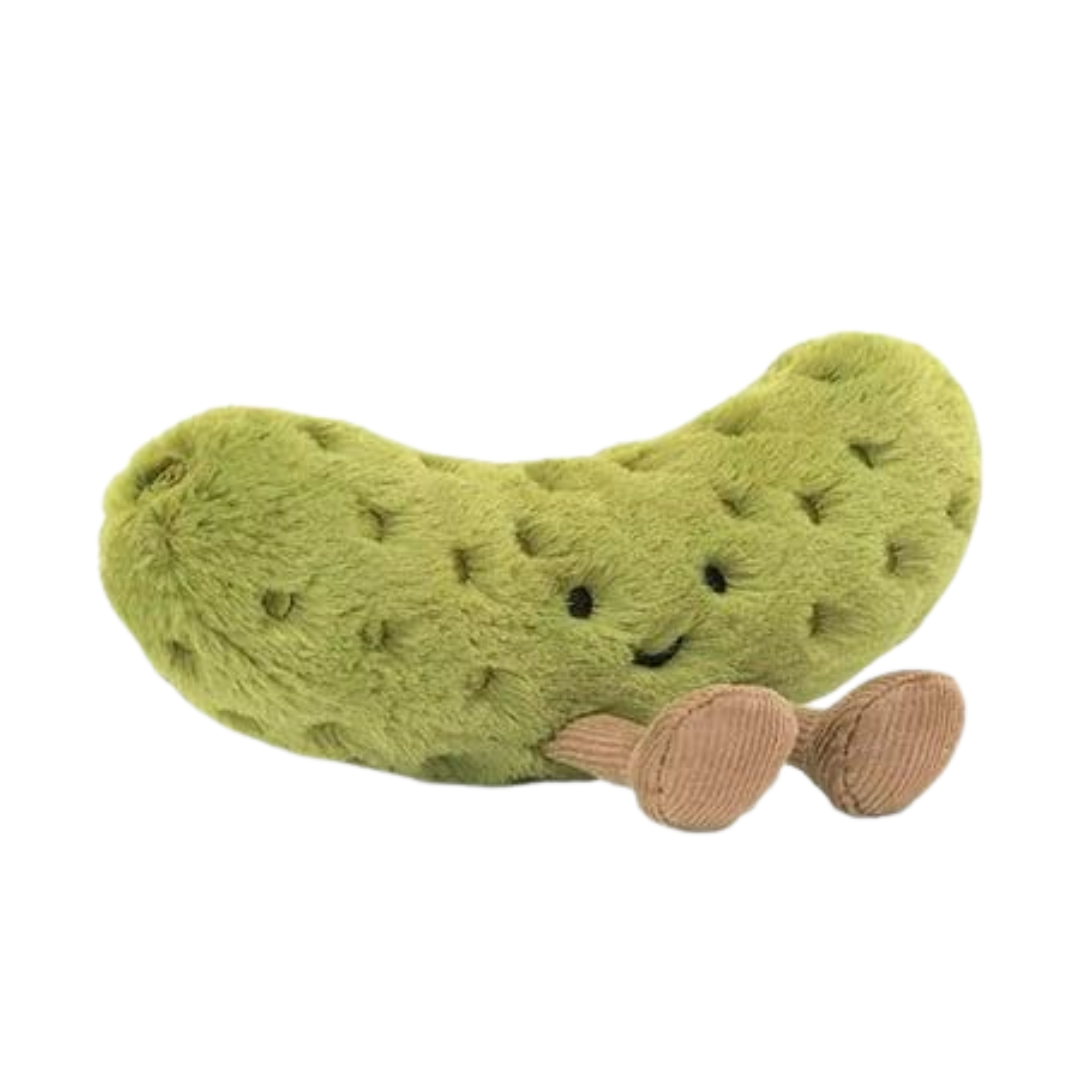
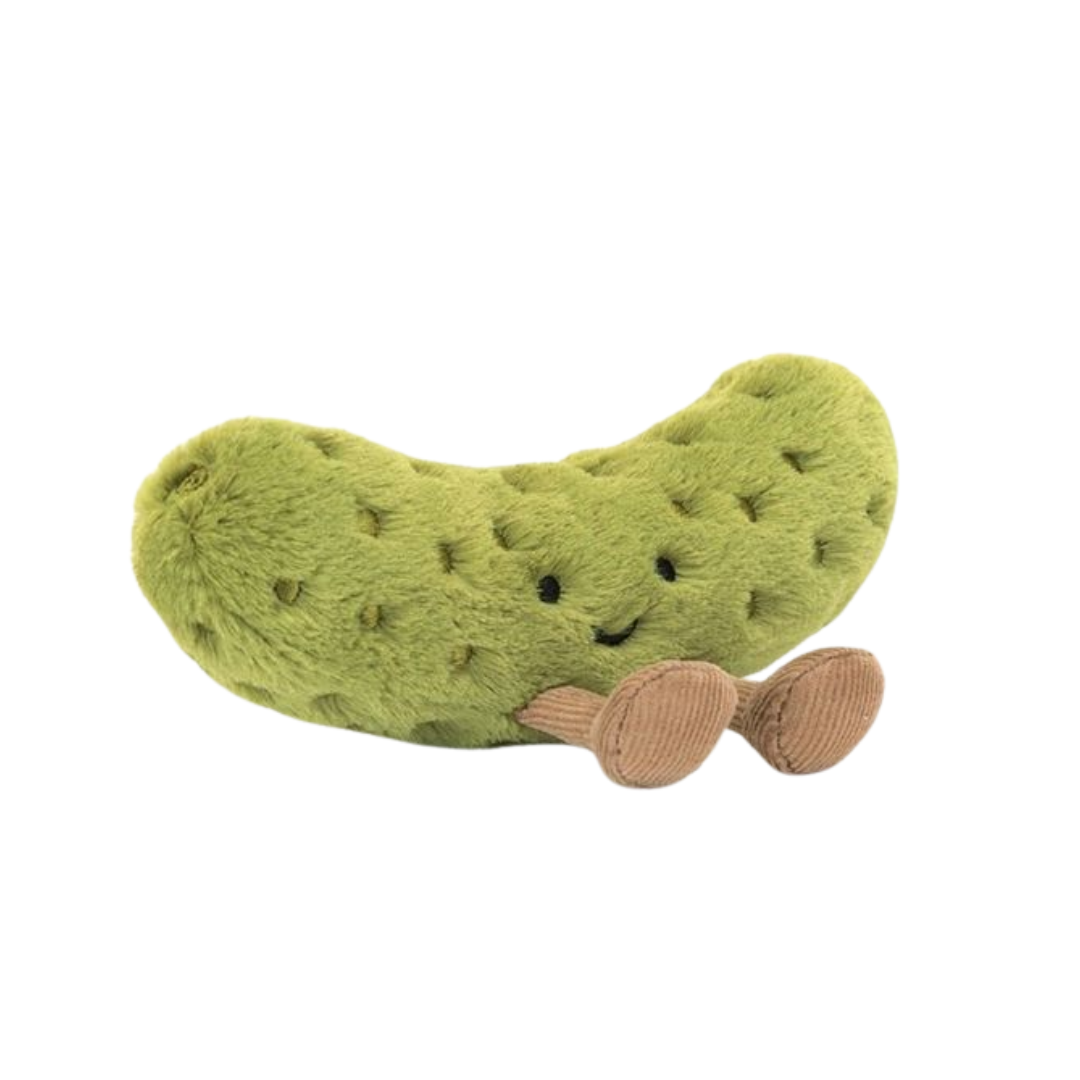
added more jelllycat items

Changed region(s): [[0.0917, 0.3056, 0.9167, 0.7944]]

diff --git a/food-jellycat-collection/src/App.jsx b/food-jellycat-collection/src/App.jsx
@@ -13,6 +13,11 @@ const jellycatCollection = [
   { name: "brie", type: "misc", img: "/jellycat-images/brie.png"},
   { name: "chili", type: "veggie", img: "/jellycat-images/chili.png"},
   { name: "clementine", type: "fruit", img: "/jellycat-images/clementine.png"},
+  { name: "birthday cake", type: "pastry", img: "/jellycat-images/birthday_cake.png"},
+  { name: "cauliflower", type: "veggie", img: "/jellycat-images/cauliflower.png"},
+  { name: "lemon tart", type: "pastry", img: "/jellycat-images/lemon_tart.png"},
+  { name: "pickle", type: "veggie", img: "/jellycat-images/pickle.png"},
+  { name: "macaroon", type: "pastry", img: "/jellycat-images/macaroon.png"},
   
 
 

diff --git a/food-jellycat-collection/src/DinnerTable.css b/food-jellycat-collection/src/DinnerTable.css
@@ -18,9 +18,8 @@
 }
 
 .seat {
-    border: 2px solid orange;
     border-radius: 50%;
-    width: 40%;
+    width: 37%;
     position: absolute;
     animation: rotation 3s linear infinite;
 }
